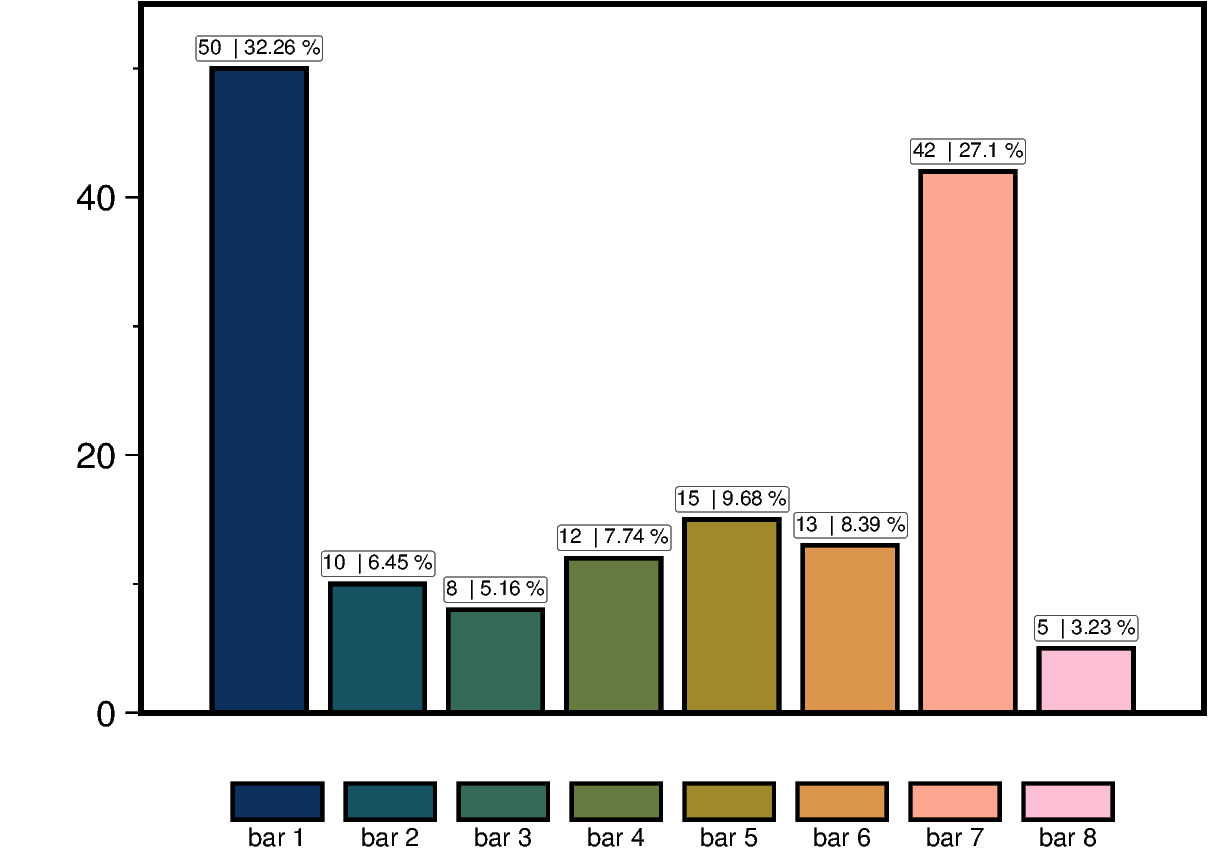
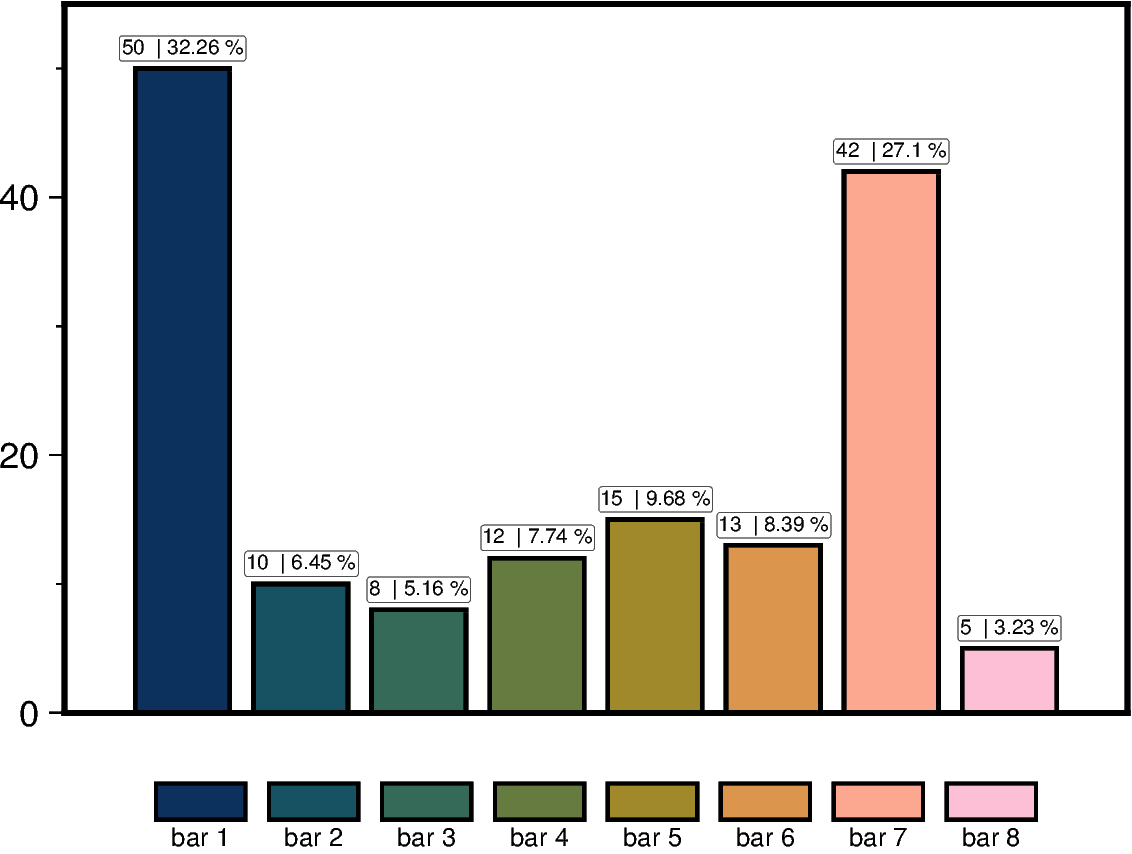
Make codes consistent | Improve warning text | Improve frame bar chart

diff --git a/014_general_stats/03_bar_chart/bar_chart_pygmt.py b/014_general_stats/03_bar_chart/bar_chart_pygmt.py
@@ -17,9 +17,8 @@
 # - GitHub: https://github.com/yvonnefroehlich/gmt-pygmt-plotting
 # #############################################################################
 
-
-import pandas as pd
 import numpy as np
+import pandas as pd
 import pygmt
 from pygmt.params import Position
 
@@ -84,8 +83,8 @@ def bar_chart(
     # Check annot
     if len(bars) != len(annot) and len(annot) != 0:
         print(
-            "The lengths of 'bars' and 'cb_annot' must be identical. " + \
-            "Using default colorbar annot 'bar1' ... 'barN'."
+            "The lengths of 'bars' and 'cb_annot' have to be identical. " + \
+            "Using default colorbar annotations 'bar1' ... 'barN'."
         )
 
     if annot == [] or (len(bars) != len(annot)):
@@ -96,8 +95,8 @@ def bar_chart(
     # Check colors
     if (len(bars) != len(colors)) and (len(colors) > 1) and fill_type=="discrete":
         print(
-            "The lengths of 'bars' and 'colors' must be identical " + \
-            "for using fill_type=='discrete'! Using default colormap 'batlow'."
+            "The lengths of 'bars' and 'colors' have to be identical " + \
+            "for using fill_type='discrete'! Using default colormap 'batlow'."
         )
 
     if len(colors) == 1:
@@ -121,9 +120,6 @@ def bar_chart(
     if axis_label != None and unit != None:
         axis_label = f"{axis_label} / {unit}"
 
-    if axis_label == None:
-        axis_label = " "
-
     if cb_label == None:
         cb_label = " "
 
@@ -132,7 +128,7 @@ def bar_chart(
     else:
         unit = f" {unit}"  # Add white space before unit
 
-    # Create pandas Dataframe based on orientation of bars
+    # Set up vales for bars based on orientation
     xy = np.arange(1, len(bars) + 1, 1)
     xy_offset = max(bars) * 0.0025
 
@@ -142,6 +138,8 @@ def bar_chart(
             plot_width = len(bars) + 1
             plot_hight = 6
             frame = ["Wbtr", f"yaf+l{axis_label}"]
+            if axis_label == None:
+                frame = ["Wbtr", "yaf"]
             dict_bars = {"x": xy, "y": bars}
             style = "b"
             x_text = xy
@@ -154,6 +152,8 @@ def bar_chart(
             plot_width = 6
             plot_hight = - (len(bars) + 1)
             frame = ["lbNr", f"xaf+l{axis_label}"]
+            if axis_label == None:
+                frame = ["lbNr", "xaf"]
             dict_bars = {"x": bars, "y": xy}
             style = "B"
             x_text = bars
@@ -162,6 +162,7 @@ def bar_chart(
             x_offset = xy_offset
             y_offset = 0
 
+	# Create pandas Dataframe
     df_bars = pd.DataFrame(dict_bars, columns=["x", "y"])
     match fill_type:
         case "discrete":
@@ -200,7 +201,7 @@ def bar_chart(
     # Create plot
     # -------------------------------------------------------------------------
     fig = pygmt.Figure()
-    fig.basemap(region=region, projection=projection, frame=0)
+    fig.basemap(region=region, projection=projection, frame="+n")
 
     match fill_type:
         case "discrete":

diff --git a/014_general_stats/04_pie_chart/pie_chart_pygmt.py b/014_general_stats/04_pie_chart/pie_chart_pygmt.py
@@ -21,7 +21,6 @@
 # - GitHub: https://github.com/yvonnefroehlich/gmt-pygmt-plotting
 # #############################################################################
 
-
 import numpy as np
 import pandas as pd
 import pygmt
@@ -81,8 +80,8 @@ def pie_chart(
     # Check annot
     if len(sectors) != len(annot) and len(annot) != 0:
         print(
-            "The lengths of 'sectors' and 'cb_annot' must be identical. " + \
-            "Using default colorbar annot 'sector1' ... 'sectorN'."
+            "The lengths of 'sectors' and 'cb_annot' have to be identical. " + \
+            "Using default colorbar annotations 'sector1' ... 'sectorN'."
         )
 
     if annot == [] or (len(sectors) != len(annot)):
@@ -93,8 +92,8 @@ def pie_chart(
     # Check colors
     if (len(sectors) != len(colors)) and (len(colors) > 1) and fill_type=="discrete":
         print(
-            "The lengths of 'sectors' and 'colors' must be identical " + \
-            "for using fill_type=='discrete'! Using default colormap 'batlow'."
+            "The lengths of 'sectors' and 'colors' have to be identical " + \
+            "for using fill_type='discrete'! Using default colormap 'batlow'."
         )
 
     if len(colors) == 1:
